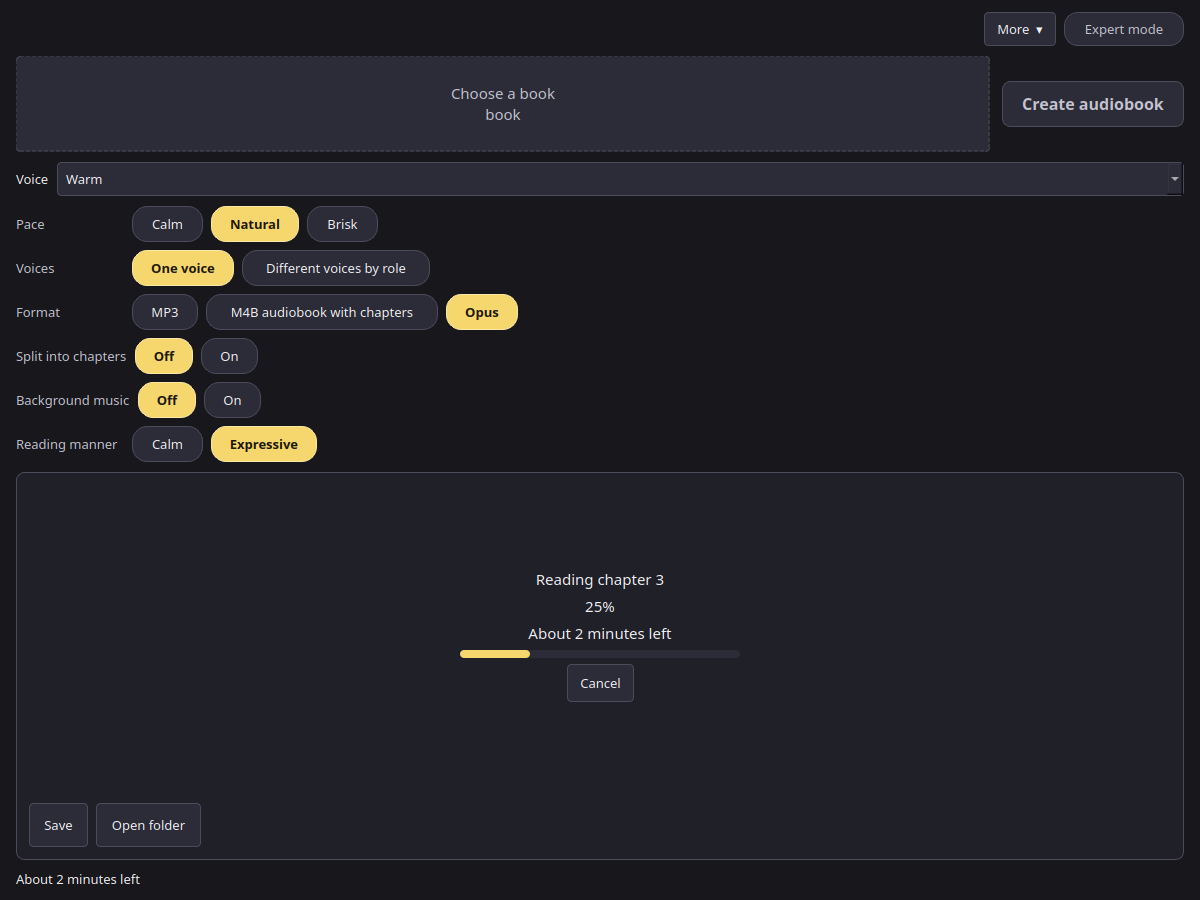
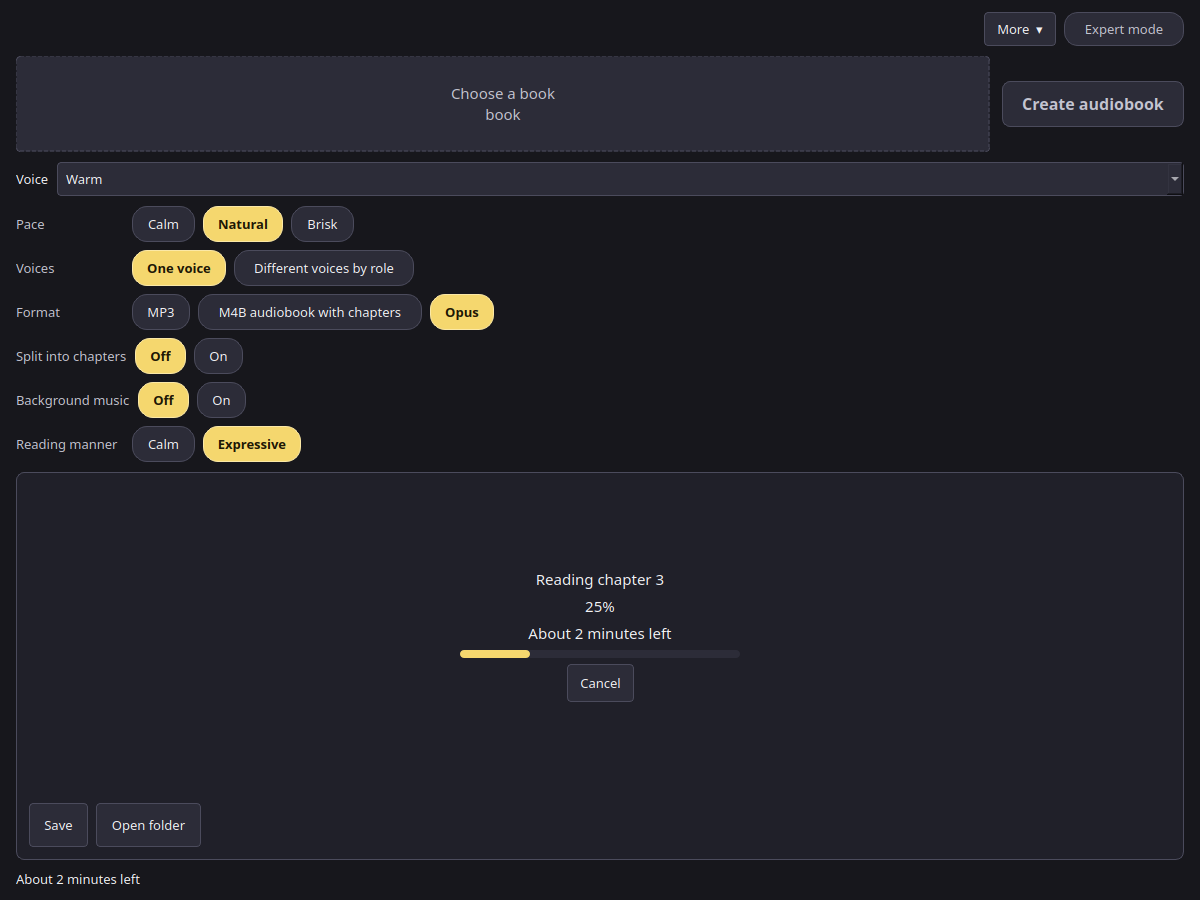
Keep Russian pace chips from overlapping at 960.
The bold label still sets the chip width. The extra slack stays on the expert toggle, where the checked label is heavier, and off the chip row so the chips fit the window.

Changed region(s): [[0.1233, 0.2178, 0.4317, 0.5289]]

diff --git a/ui/shell_window.py b/ui/shell_window.py
@@ -543,7 +543,7 @@ class AudiobookShell:
 
     def _fit_pills(self) -> None:
         density = load_tokens().density
-        pad = _CHIP_PAD_X * 2 + density.border_px * 2 + 8
+        pad = _CHIP_PAD_X * 2 + density.border_px * 2
         for button in self.screen.root.findChildren(QPushButton):
             name = str(button.objectName())
             if button.property("chip") != "true" and not name.startswith("reset-") and name != "expertToggle":
@@ -555,10 +555,8 @@ class AudiobookShell:
             font.setPixelSize(density.body_px)
             font.setWeight(QFont.Weight.DemiBold)
             advance = QFontMetrics(font).horizontalAdvance(text)
-            button.setMinimumWidth(max(advance + pad, 36))
-            hint = button.sizeHint().width()
-            if hint > button.minimumWidth():
-                button.setMinimumWidth(hint)
+            extra = 8 if name == "expertToggle" else 0
+            button.setMinimumWidth(max(advance + pad + extra, 36))
 
     def _fit_history(self) -> None:
         strip = self.screen.root.findChild(QScrollArea, "historyStrip")

diff --git a/tests/test_shell_window.py b/tests/test_shell_window.py
@@ -364,7 +364,7 @@ def _sibling_overlaps(root: QWidget) -> list[tuple[str, str, QRect]]:
 
 def _assert_labels_fit(root: QWidget, language: str, width: int, mode: str) -> None:
     density = load_tokens().density
-    pad = 14 * 2 + density.border_px * 2 + 8
+    pad = 14 * 2 + density.border_px * 2
     for button in root.findChildren(QPushButton):
         name = button.objectName()
         chip = button.property("chip") == "true" or name.startswith("reset-") or name == "expertToggle"
